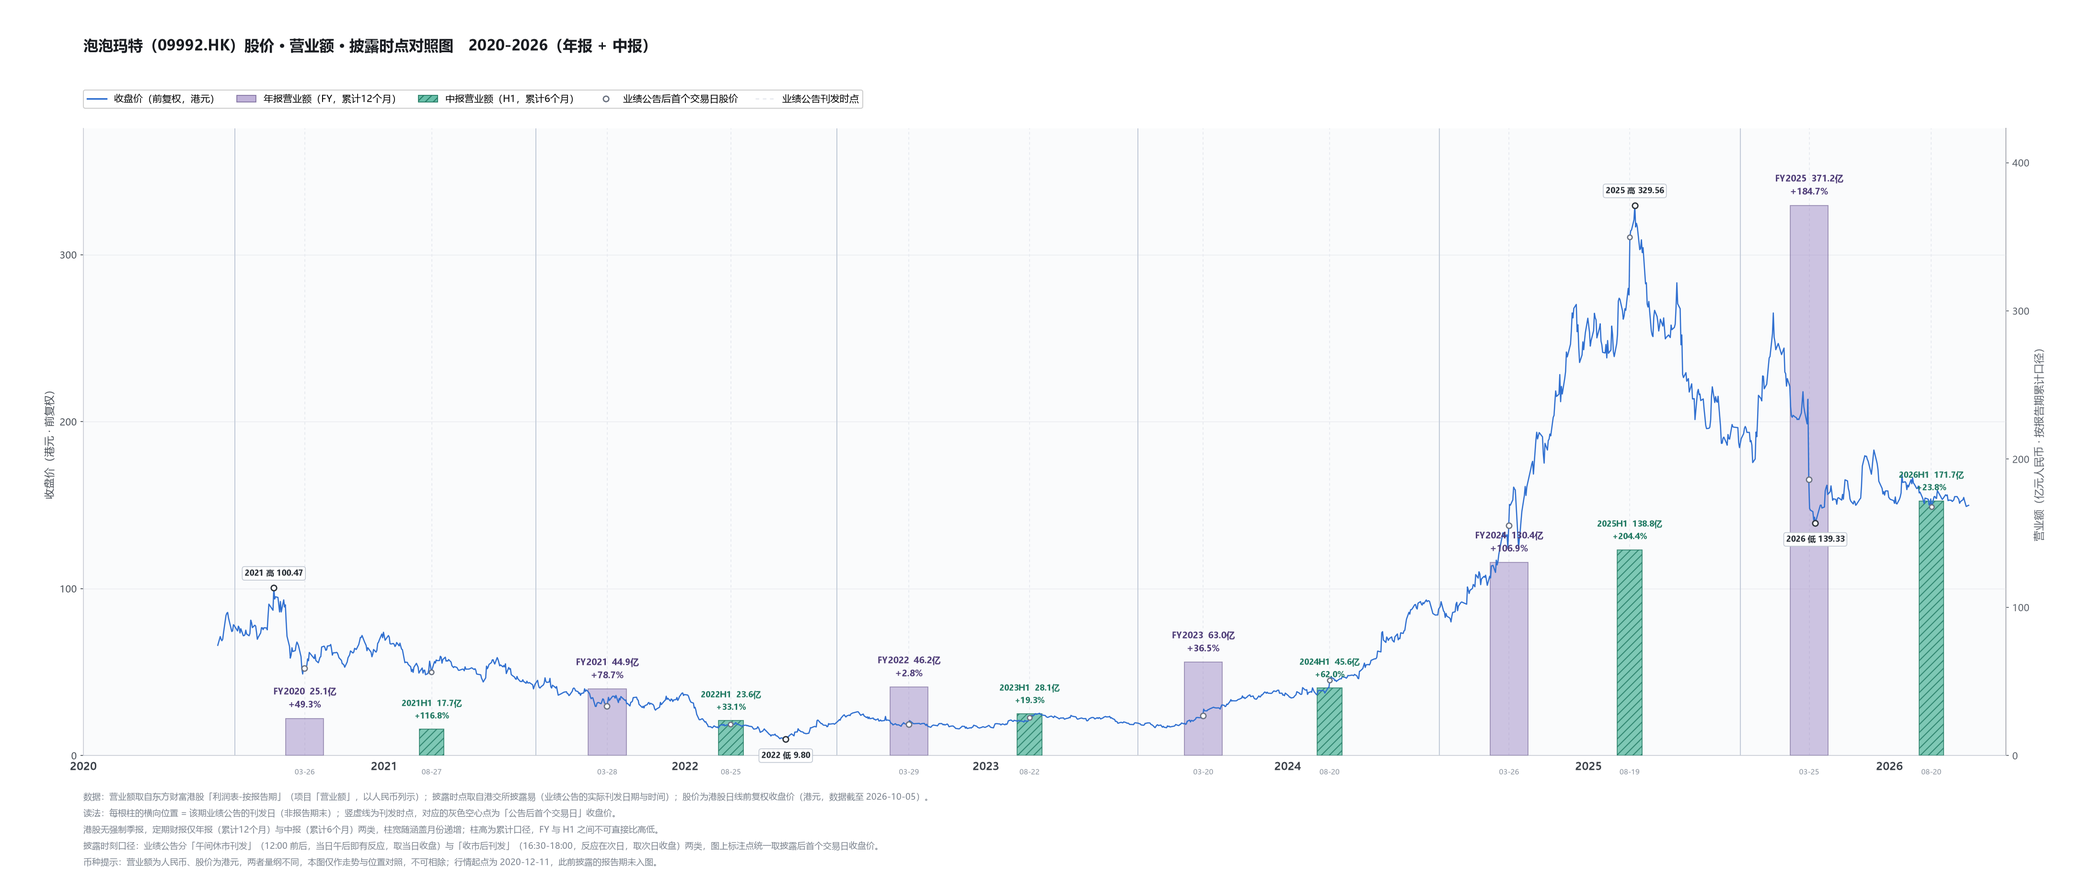
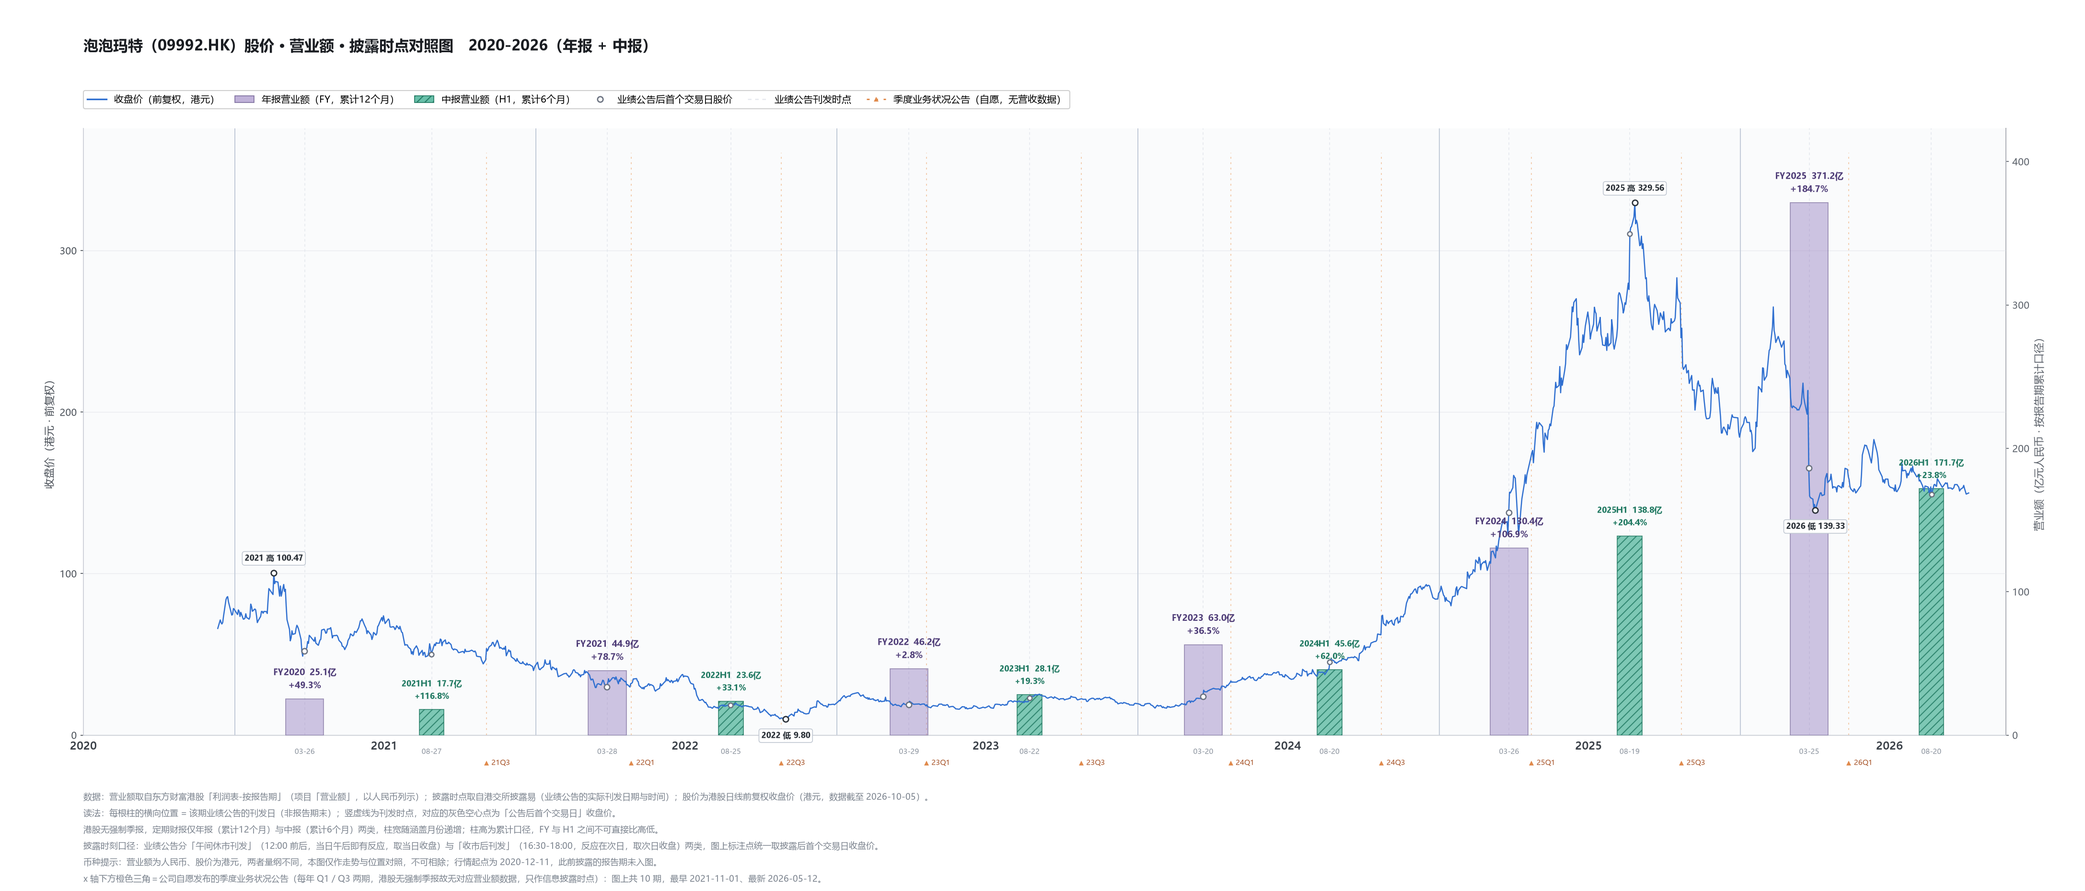
refactor(skill): 港股对照图季度业务状况标记改到 x 轴下方季度轨道
- 原设计把橙色三角放在绘图区顶部 96.5%，与标题/图例争顶部空间；改为压到 x 轴刻度标签下方约 28pt 的专用轨道：三角用 ax.get_xaxis_transform()（x=date2num 数据，y=axes fraction）+ clip_on=False，标签横排在三角右侧同一行

- 底部腾空间：gridspec bottom 0.152 -> 0.175，垂直分四层（柱的 MM-DD / 年份刻度标签 / 季度轨道 / 脚注）；像素实测 10 期三角与标签全部在位，与年份标签底相距 27px、与脚注顶相距 57px

- 淡橙点线保留贯穿柱区（连接轴下三角与柱区），zorder 低于营收柱，被柱自然遮住（实测 2023Q1 那段被遮）

- 页面读法与脚本 docstring 同步改为「x 轴下方橙色三角」；重建 wiki 视图（317 页）与 report/index.html（103 只标的/28 行业，含赫达英文名刷新）

diff --git a/research-wiki/view/stocks/泡泡玛特/营收-披露时点-股价对照图.html b/research-wiki/view/stocks/泡泡玛特/营收-披露时点-股价对照图.html
@@ -124,6 +124,7 @@ body{font-family:-apple-system,BlinkMacSystemFont,"Segoe UI",Roboto,"PingFang SC
 <li>每根柱的<strong>横向位置＝该期业绩公告在港交所的刊发日</strong>（非报告期末）。</li>
 <li>港股无强制季报，只有两色：<strong>年报紫（累计 12 个月）/ 中报青绿（累计 6 个月）</strong>，柱宽随涵盖月份递增；柱高为累计口径，FY 与 H1 之间不可直接比高低；柱顶百分比为同口径上年同期同比。</li>
 <li>港股业绩公告分「午间休市刊发」（12:00-12:26，当日午后即反应）与「收市后刊发」（16:30-18:00，反应在次日）。图上灰色空心点统一取<strong>公告后首个交易日</strong>收盘价。</li>
+<li><strong>x 轴下方的橙色三角 + 贯穿柱区的淡橙虚点竖线＝「季度最新业务状况」公告</strong>：公司在年报/中报之外自愿发布的经营更新，每年 Q1 / Q3 两期（首期 2021Q3）。它<strong>不是定期财报</strong>（港股无强制季报，东财利润表里也没有对应期次的营业额），所以不画成营收柱，只在年份刻度标签下方的<strong>季度轨道</strong>上给一个三角 + 期次标签（<code>21Q3</code>、<code>22Q1</code>…），并用一条淡橙点线把它与柱区连起来。</li>
 <li>2020-12-11 上市，此前披露的报告期未入图，共 12 期（FY/H1 各 6 期）。</li>
 </ul>
 <h2>关键读数（营业额：亿元人民币；股价：港元，前复权）</h2>
@@ -228,6 +229,7 @@ body{font-family:-apple-system,BlinkMacSystemFont,"Segoe UI",Roboto,"PingFang SC
 <ul>
 <li><strong>增速一条大拱形</strong>：+49.3% → +116.8% → +78.7% → +33.1% → +2.8%（FY2022 谷）→ +19.3% → +36.5% → +62.0% → +106.9% → +204.4%（2025H1 峰）→ +184.7% → <strong>+23.8%（2026H1 骤落）</strong>。2026 年管理层在 25A 业绩会自认&quot;全年大概率完不成 +20%&quot;，2026H1 是该指引下的第一份答卷。</li>
 <li><strong>披露节奏极规律</strong>：年报固定 <strong>3 月 20-29 日</strong>，中报固定 <strong>8 月 19-27 日</strong>；刊发时刻 2023H1 起从午间（12:00 前后）整体切换为收市后（16:30-18:00）。</li>
+<li><strong>定期财报之外还有一条季度通道</strong>（图上橙色三角）：公司每年自愿发布 Q1 / Q3「最新业务状况」，<strong>Q1 在 4 月中下旬（04-19~04-26，2026 年推迟到 05-12）、Q3 在 10 月下旬（10-21~10-25，2021 年首期延到 11-01）</strong>，共 10 期（2021Q3~2026Q1）。<strong>2026Q3 截至 2026-10-06 尚未刊发</strong>，10 月下旬窗口已过。另有三次 <strong>正面盈利预告</strong>（2023-07-19 / 2024-07-18 / 2025-07-15，均在中报前约一个月），2026 年至今未发——这两类都不是定期财报，图上不画柱、只作时点。</li>
 <li><strong>2025-08-19 是全案的爆点</strong>：25H1（+204.4%）收市后公告，次日 310.50 渠口跳升，一周后 2025-08-26 见历史最高 <strong>329.56</strong>（收盘口径，盘中 333.88）——历史高点出现在业绩公告后第 5 个交易日。</li>
 <li><strong>业绩最好的一年，公告日股价已腰斩</strong>：FY2025 营业额 371.20 亿（+184.7%，历史最高）2026-03-25 午间公告，当日收 165.37，较 2025-08-26 高点 <strong>−49.8%</strong>。与山东赫达（FY2024 新高披露当日处十年低位）、柏楚电子（FY2021 披露时较高点腰斩）同构：<strong>市场定价的是增速的方向，不是营收的绝对值</strong>。</li>
 <li><strong>增长还在、股价先崩的一段</strong>：2021 高 100.47 → 2022-10-31 低 9.80（<strong>−90.2%</strong>），期间 FY2021（+78.7%）公告当日 29.74、2022H1（+33.1%）公告当日 18.62——营收正增长持续了整个下跌段，属纯杀估值。</li>

diff --git a/report/index.html b/report/index.html
@@ -122,7 +122,7 @@
       <span>·</span>
       <span>28 个行业</span>
       <span>·</span>
-      <span>更新: 2026-10-05</span>
+      <span>更新: 2026-10-06</span>
     </div>
     <a href="../research-wiki/index.html" style="color:#ccc;text-decoration:none;font-size:13px;padding:6px 14px;border:1px solid #555;border-radius:6px;transition:all .2s" onmouseover="this.style.color='#fff';this.style.borderColor='#888';this.style.background='#333'" onmouseout="this.style.color='#ccc';this.style.borderColor='#555';this.style.background='transparent'">📚 投研 Wiki</a>
   </div>
@@ -845,7 +845,7 @@
     <h3 class="section-title">🎯 精细化工</h3>
     <div class="grid">
       <div class="card">
-        <div class="card-title">Shandong Head · 山东赫达</div>
+        <div class="card-title">SHANDONG HEAD GROUP · 山东赫达</div>
         <div class="card-meta">
           <span class="code">002810</span>
           <span class="badge badge-cn">A股</span>

diff --git a/scripts/09992/revenue_price_timeline_hk.py b/scripts/09992/revenue_price_timeline_hk.py
@@ -9,12 +9,17 @@
 | 披露日 | 东财 NOTICE_DATE | 港交所披露易 titleSearchServlet（业绩公告刊发日 **精确到分钟**） |
 | 行情 | ak.stock_zh_a_daily(qfq) | ak.stock_hk_daily(qfq)，单位港元 |
 | 期别 | 一季报 / 中报 / 三季报 / 年报 四色 | 港股无强制季报 → **仅中报(H1) / 年报(FY) 两色** |
+| 季度更新 | A 股 Q1/Q3 本身就是定期财报 | 另在 x 轴下方用**橙色三角**标记自愿性季度业务状况（Q1/Q3），只有时点、无营收 |
 
 港股特有口径：
 - 业绩公告有「午间休市刊发」与「收市后刊发」两类。前者的价格反应在**当日午后**，
   后者的反应在**次日**。故标注点统一取「披露后首个交易日」收盘价（hour<16 → 当日；
   hour>=16 → 下一交易日），口径为「市场首次完整消化该期业绩的收盘价」。
 - 营收以**人民币**列示，股价为**港元**，两者不可直接相乘，仅作走势对照。
+- 公司惯例每年自愿发布「第一/第三季度最新業務狀況」（首期 2021Q3，之后 Q1 在 4 月中下旬、
+  Q3 在 10 月下旬）。这类公告**没有营业额数据**，不能画成营收柱，只留一条淡橙点线贯穿柱区，
+  并在 x 轴刻度标签下方的「季度轨道」上给一个橙色三角 + 标签「YYQn」，用于把「定期财报节奏」
+  与「季度经营披露节奏」放在同一条时间轴上对照。
 
 用法：
     python scripts/09992/revenue_price_timeline_hk.py --code 09992 --name 泡泡玛特 \
@@ -49,6 +54,10 @@ PRICE_C = "#2f6fd0"
 GRID_C = "#e8eaee"
 YEAR_C = "#c3ccd9"
 NOTE_C = "#6b7280"
+# 季度业务状况（公司自愿公告，非定期财报）：标记/竖线/文字
+QNOTE_C = "#e08a4c"
+QNOTE_LINE_C = "#f2c9a8"
+QNOTE_TXT_C = "#a8552a"
 
 REV_ITEM = "004001001"          # 「营业额」
 
@@ -180,6 +189,29 @@ def parse_result_announcements(ann):
     return sorted(out, key=lambda x: x["notice"])
 
 
+QUARTER_RE = re.compile(
+    r"二零([〇一二三四五六七八九]{2})年第([一二三])季度最新業務狀況")
+
+
+def parse_quarterly_updates(ann):
+    """挑出公司自愿发布的「季度业务状况」公告（每年 Q1 / Q3 两期）。
+
+    港股没有强制季报，这类公告也不是定期财报（东财利润表里没有对应期次的营业额），
+    因此不进营收柱，只作为信息披露时点在图上标记。
+    """
+    out = []
+    for _, r in ann.iterrows():
+        m = QUARTER_RE.search(str(r["TITLE"]))
+        if not m:
+            continue
+        year = 2000 + _cn2int(m.group(1))
+        q = _cn2int(m.group(2))
+        if q not in (1, 3):
+            continue
+        out.append(dict(year=year, q=q, notice=r["dt"], title=str(r["TITLE"])))
+    return sorted(out, key=lambda x: x["notice"])
+
+
 # ----------------------------------------------------------------- 营收 / 行情
 def fetch_revenue(code):
     """东财港股利润表「营业额」（按报告期累计），单位：亿元。"""
@@ -195,9 +227,16 @@ def fetch_revenue(code):
     return df[["period_end", "rev"]].reset_index(drop=True)
 
 
-def fetch_price(code, start=None, end=None):
+def fetch_price(code, start=None, end=None, ipo=None):
     d = _retry(lambda: ak.stock_hk_daily(symbol=code, adjust="qfq"))
     d["date"] = pd.to_datetime(d["date"])
+    if ipo is not None:
+        # 可选：按上市日截断。数据源若给出上市日之前的行（试盘报价/不同源兜底），
+        # 图上会多出一段「上市前」的股价线，给 --ipo 即截掉。
+        # 不给此参数时，图的左端就是数据源给出的首个交易日。
+        # 注意：绘图区左右还会被 matplotlib autoscale 再加约 5% 留白，属正常，
+        # 别据此以为行情数据起点比 set_xlim 的左端更早（二者不是一回事）。
+        d = d[d["date"] >= pd.Timestamp(ipo)]
     if start is not None:
         d = d[d["date"] >= start]
     if end is not None:
@@ -278,7 +317,7 @@ def nice_ticks(top, target=7):
 
 # ----------------------------------------------------------------- 绘图
 def draw(items, px, name, code, extremes, out_path,
-         price_mult=1.14, rev_mult=1.14, footer_extra=""):
+         price_mult=1.14, rev_mult=1.14, footer_extra="", q_items=None):
     x_px = mdates.date2num(px["date"])
     y_px = px["close"].to_numpy(dtype=float)
 
@@ -295,7 +334,11 @@ def draw(items, px, name, code, extremes, out_path,
 
     fig = plt.figure(figsize=(29.0, 12.4), dpi=150)
     fig.patch.set_facecolor("#ffffff")
-    gs = fig.add_gridspec(1, 1, left=0.040, right=0.962, top=0.856, bottom=0.152)
+    # bottom 抬高到 0.175（原 0.152）：给 x 轴下方留一条「季度轨道」，
+    # 顺序自上而下＝柱的 MM-DD(-4~-13pt) / 年份刻度标签(-6~-19pt，横向错开) /
+    # 季度三角与标签(-23~-33pt) / 脚注(约 -36pt 起)，四层不互压
+    gs = fig.add_gridspec(1, 1, left=0.040, right=0.962, top=0.856,
+                          bottom=0.175)
     ax = fig.add_subplot(gs[0])
     ax.set_facecolor("#fafbfc")
     ax.set_ylim(0, price_top)
@@ -309,6 +352,33 @@ def draw(items, px, name, code, extremes, out_path,
     for ts in sorted({it["notice"] for it in items}):
         ax.axvline(mdates.date2num(ts), color="#e6e9ef", lw=0.85,
                    ls=(0, (3, 3)), zorder=1.2)
+
+    # ---- 季度业务状况（自愿公告）：淡橙点线贯穿柱区 + x 轴下方「季度轨道」标记 ----
+    #      三角与期次标签统一压到 x 轴刻度标签下方的轨道上（Q_Y，约轴下 28pt），
+    #      既不压 stock 曲线也不抢营收柱；标签横排在三角右侧，
+    #      相邻两期相隔约半年（≈300px），不会互相挤
+    q_used = [q for q in (q_items or [])
+              if px["date"].min() <= q["notice"] <= end]
+    if q_used:
+        q_note = ("x 轴下方橙色三角＝公司自愿发布的季度业务状况公告（每年 Q1 / Q3 两期，"
+                  "港股无强制季报故无对应营业额数据，只作信息披露时点）：图上共 %d 期，"
+                  "最早 %s、最新 %s。"
+                  % (len(q_used), q_used[0]["notice"].strftime("%Y-%m-%d"),
+                     q_used[-1]["notice"].strftime("%Y-%m-%d")))
+    else:
+        q_note = ""
+    q_track = ax.get_xaxis_transform()      # x=date2num 数据坐标，y=axes fraction
+    Q_Y = -0.046                            # ≈ 轴下方 28pt
+    for q in q_used:
+        xv = mdates.date2num(q["notice"])
+        ax.plot([xv, xv], [0, price_top * 0.96], color=QNOTE_LINE_C, lw=0.9,
+                ls=(0, (2, 4)), zorder=1.15)
+        ax.plot([xv], [Q_Y], marker="^", ms=5.0, color=QNOTE_C, mec="none",
+                transform=q_track, clip_on=False, zorder=Z_LABEL)
+        ax.annotate("%02dQ%d" % (q["year"] % 100, q["q"]), (xv, Q_Y),
+                    xycoords=q_track, textcoords="offset points",
+                    xytext=(5, 0), ha="left", va="center",
+                    fontsize=7.0, color=QNOTE_TXT_C, zorder=Z_LABEL)
 
     for key in DRAW_ORDER:
         st = STYLE[key]
@@ -393,8 +463,12 @@ def draw(items, px, name, code, extremes, out_path,
                               label="业绩公告后首个交易日股价"))
     handles.append(plt.Line2D([], [], color="#e6e9ef", lw=1.2, ls=(0, (3, 3)),
                               label="业绩公告刊发时点"))
+    if q_used:
+        handles.append(plt.Line2D([], [], color=QNOTE_C, lw=1.4, ls=(0, (2, 4)),
+                                  marker="^", ms=5.0, mec="none",
+                                  label="季度业务状况公告（自愿，无营收数据）"))
     ax.legend(handles=handles, loc="lower left", fontsize=9.6, frameon=True,
-              framealpha=0.94, ncol=5, columnspacing=1.8,
+              framealpha=0.94, ncol=6, columnspacing=1.6,
               bbox_to_anchor=(0.0, 1.032), borderaxespad=0.0)
 
     ax.set_title("%s（%s.HK）股价 · 营业额 · 披露时点对照图　%d-%d（年报 + 中报）"
@@ -412,8 +486,9 @@ def draw(items, px, name, code, extremes, out_path,
              "披露时刻口径：业绩公告分「午间休市刊发」（12:00 前后，当日午后即有反应，取当日收盘）"
              "与「收市后刊发」（16:30-18:00，反应在次日，取次日收盘）两类，图上标注点统一取披露后首个交易日收盘价。\n"
              "币种提示：营业额为人民币、股价为港元，两者量纲不同，本图仅作走势与位置对照，不可相除；"
-             "行情起点为 %s，此前披露的报告期未入图。%s"
-             % (end.strftime("%Y-%m-%d"), start.strftime("%Y-%m-%d"), footer_extra),
+             "行情起点为 %s，此前披露的报告期未入图。%s\n%s"
+             % (end.strftime("%Y-%m-%d"), start.strftime("%Y-%m-%d"),
+                footer_extra, q_note),
              fontsize=8.8, color="#7a828d", ha="left", va="top",
              linespacing=1.75)
 
@@ -429,6 +504,8 @@ def main():
     ap.add_argument("--code", required=True, help="港股代码，如 09992")
     ap.add_argument("--name", default=None, help="股票简称，缺省用代码")
     ap.add_argument("--start", default=None, help="起始日 YYYY-MM-DD，缺省取行情首日")
+    ap.add_argument("--ipo", default=None,
+                    help="上市日 YYYY-MM-DD；接口偶发返回上市前的行，给此值即截断")
     ap.add_argument("--end", default=None, help="截止日 YYYY-MM-DD，缺省取今天")
     ap.add_argument("--out", default=None, help="输出 PNG 路径")
     ap.add_argument("--csv", default=None, help="明细 CSV 路径")
@@ -445,9 +522,12 @@ def main():
     start = pd.Timestamp(args.start) if args.start else None
     end = pd.Timestamp(args.end) if args.end else None
 
-    px = fetch_price(code, start, end)
+    px = fetch_price(code, start, end, ipo=args.ipo)
     if px.empty:
         raise SystemExit("未取到行情：%s" % code)
+    print("行情 %s ~ %s（%d 个交易日%s）"
+          % (px["date"].min().date(), px["date"].max().date(), len(px),
+             "，已按 --ipo 截断" if args.ipo else ""))
     name = args.name or code
 
     rev = fetch_revenue(code)
@@ -457,6 +537,12 @@ def main():
     for a in ann_items:
         print("   ", a["notice"], "%s %s" % (a["kind"],
               a["period_end"].date()), a["title"][:52])
+
+    q_ann = parse_quarterly_updates(ann)
+    print("\n季度业务状况公告（自愿，非定期财报）%d 条：" % len(q_ann))
+    for q in q_ann:
+        print("   ", q["notice"], "%dQ%d" % (q["year"], q["q"]),
+              q["title"][:44])
 
     items = build_frames(ann_items, rev, px["date"].min())
     if not items:
@@ -473,7 +559,8 @@ def main():
     out, pat = draw(items, px, name, code,
                     [ex for ex in extremes
                      if px["date"].min().year <= ex["year"] <= px["date"].max().year],
-                    out, price_mult=args.price_mult, rev_mult=args.rev_mult)
+                    out, price_mult=args.price_mult, rev_mult=args.rev_mult,
+                    q_items=q_ann)
     print("\nPNG ->", os.path.abspath(out))
 
     for p in pat:
@@ -485,6 +572,10 @@ def main():
     if args.json:
         with open(args.json, "w", encoding="utf-8") as f:
             json.dump(dict(code=code, name=name, periods=pat,
+                           quarterly=[dict(label="%dQ%d" % (q["year"], q["q"]),
+                                           notice=q["notice"].strftime(
+                                               "%Y-%m-%d %H:%M"),
+                                           title=q["title"]) for q in q_ann],
                            price_start=str(px["date"].min().date()),
                            price_end=str(px["date"].max().date()),
                            last_close=round(float(px["close"].iloc[-1]), 2)),

diff --git a/research-wiki/research/消费/泡泡玛特/营收-披露时点-股价对照图.md b/research-wiki/research/消费/泡泡玛特/营收-披露时点-股价对照图.md
@@ -2,7 +2,7 @@
 topic: 泡泡玛特 (09992.HK) — 营收 × 披露时点 × 股价 对照图（2020-2026）
 category: 投研-企业分析
 created: 2026-10-05
-updated: 2026-10-05
+updated: 2026-10-06
 sources:
   - 东方财富港股「利润表-按报告期」：营业额（STD_ITEM_CODE=004001001，人民币列示）
   - 港交所披露易 titleSearchServlet：业绩公告实际刊发日期与时间（stockId=1000068054）
@@ -22,6 +22,7 @@ sources:
 - 每根柱的**横向位置＝该期业绩公告在港交所的刊发日**（非报告期末）。
 - 港股无强制季报，只有两色：**年报紫（累计 12 个月）/ 中报青绿（累计 6 个月）**，柱宽随涵盖月份递增；柱高为累计口径，FY 与 H1 之间不可直接比高低；柱顶百分比为同口径上年同期同比。
 - 港股业绩公告分「午间休市刊发」（12:00-12:26，当日午后即反应）与「收市后刊发」（16:30-18:00，反应在次日）。图上灰色空心点统一取**公告后首个交易日**收盘价。
+- **x 轴下方的橙色三角 + 贯穿柱区的淡橙虚点竖线＝「季度最新业务状况」公告**：公司在年报/中报之外自愿发布的经营更新，每年 Q1 / Q3 两期（首期 2021Q3）。它**不是定期财报**（港股无强制季报，东财利润表里也没有对应期次的营业额），所以不画成营收柱，只在年份刻度标签下方的**季度轨道**上给一个三角 + 期次标签（`21Q3`、`22Q1`…），并用一条淡橙点线把它与柱区连起来。
 - 2020-12-11 上市，此前披露的报告期未入图，共 12 期（FY/H1 各 6 期）。
 
 ## 关键读数（营业额：亿元人民币；股价：港元，前复权）
@@ -45,6 +46,7 @@ sources:
 
 - **增速一条大拱形**：+49.3% → +116.8% → +78.7% → +33.1% → +2.8%（FY2022 谷）→ +19.3% → +36.5% → +62.0% → +106.9% → +204.4%（2025H1 峰）→ +184.7% → **+23.8%（2026H1 骤落）**。2026 年管理层在 25A 业绩会自认"全年大概率完不成 +20%"，2026H1 是该指引下的第一份答卷。
 - **披露节奏极规律**：年报固定 **3 月 20-29 日**，中报固定 **8 月 19-27 日**；刊发时刻 2023H1 起从午间（12:00 前后）整体切换为收市后（16:30-18:00）。
+- **定期财报之外还有一条季度通道**（图上橙色三角）：公司每年自愿发布 Q1 / Q3「最新业务状况」，**Q1 在 4 月中下旬（04-19~04-26，2026 年推迟到 05-12）、Q3 在 10 月下旬（10-21~10-25，2021 年首期延到 11-01）**，共 10 期（2021Q3~2026Q1）。**2026Q3 截至 2026-10-06 尚未刊发**，10 月下旬窗口已过。另有三次 **正面盈利预告**（2023-07-19 / 2024-07-18 / 2025-07-15，均在中报前约一个月），2026 年至今未发——这两类都不是定期财报，图上不画柱、只作时点。
 - **2025-08-19 是全案的爆点**：25H1（+204.4%）收市后公告，次日 310.50 渠口跳升，一周后 2025-08-26 见历史最高 **329.56**（收盘口径，盘中 333.88）——历史高点出现在业绩公告后第 5 个交易日。
 - **业绩最好的一年，公告日股价已腰斩**：FY2025 营业额 371.20 亿（+184.7%，历史最高）2026-03-25 午间公告，当日收 165.37，较 2025-08-26 高点 **−49.8%**。与山东赫达（FY2024 新高披露当日处十年低位）、柏楚电子（FY2021 披露时较高点腰斩）同构：**市场定价的是增速的方向，不是营收的绝对值**。
 - **增长还在、股价先崩的一段**：2021 高 100.47 → 2022-10-31 低 9.80（**−90.2%**），期间 FY2021（+78.7%）公告当日 29.74、2022H1（+33.1%）公告当日 18.62——营收正增长持续了整个下跌段，属纯杀估值。
